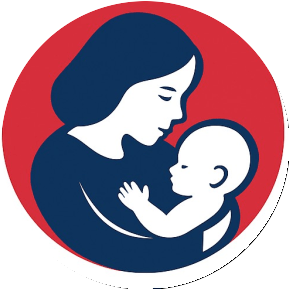
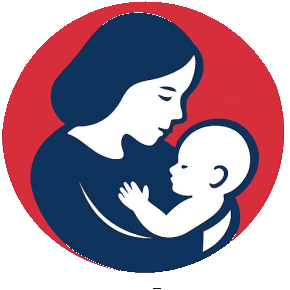
Fix Project BOLD emblem rendering

diff --git a/apps/web/styles/globals.css b/apps/web/styles/globals.css
@@ -403,6 +403,25 @@ html[data-lh-brand='bold'] .lh-brand-lockup--compact .lh-brand-logo {
   height: 100%;
 }
 
+/* Keep the BOLD sidebar emblem centered in its fixed header slot. The auth
+ * mark intentionally keeps its larger responsive sizing above. */
+html[data-lh-brand='bold'] .lh-dashboard-sidebar .lh-brand-lockup--compact {
+  width: 2.25rem;
+  height: 2.25rem;
+  flex: 0 0 2.25rem;
+  align-items: center;
+  justify-content: center;
+  overflow: hidden;
+  aspect-ratio: 1 / 1;
+}
+
+html[data-lh-brand='bold'] .lh-dashboard-sidebar .lh-brand-lockup--compact .lh-brand-logo {
+  width: 100%;
+  height: 100%;
+  object-fit: contain;
+  object-position: center;
+}
+
 .lh-brand-bbu-wordmark {
   font-size: 1.15rem;
   font-weight: 600;

diff --git a/apps/web/services/branding/brandProfile.ts b/apps/web/services/branding/brandProfile.ts
@@ -85,9 +85,9 @@ const BOLD_PROFILE: BrandProfile = {
     body: 'Inter',
     heading: 'Fraunces',
   },
-  // project-bold-emblem.png is derived from BOLD_ASSET_SOURCES.logo by taking
-  // the official favicon crop (x=111,y=111,w=290,h=290) and applying a
-  // centered radius-144 alpha mask. This keeps only the emblem, with no type.
+  // project-bold-emblem.png is derived from the official favicon crop
+  // (x=111,y=111,w=290,h=290), retaining the original artwork while removing
+  // the source's outer white/gray fringe and clearing the transparent corners.
   logoPath: '/api/branding/logo',
   logoAlt: 'Project B.O.L.D. emblem',
   faviconPath: '/api/branding/icon',

diff --git a/apps/web/components/Dashboard/Menus/DashLeftMenu.tsx b/apps/web/components/Dashboard/Menus/DashLeftMenu.tsx
@@ -209,7 +209,7 @@ function DashLeftMenu() {
           href={'/'}
         >
           {brand.key === 'bold' ? (
-            <BrandLogo compact className="h-10 w-10 shrink-0" />
+            <BrandLogo compact className="h-9 w-9 shrink-0" />
           ) : org?.logo_image ? (
             <img
               src={getOrgLogoMediaDirectory(org.org_uuid, org.logo_image)}
